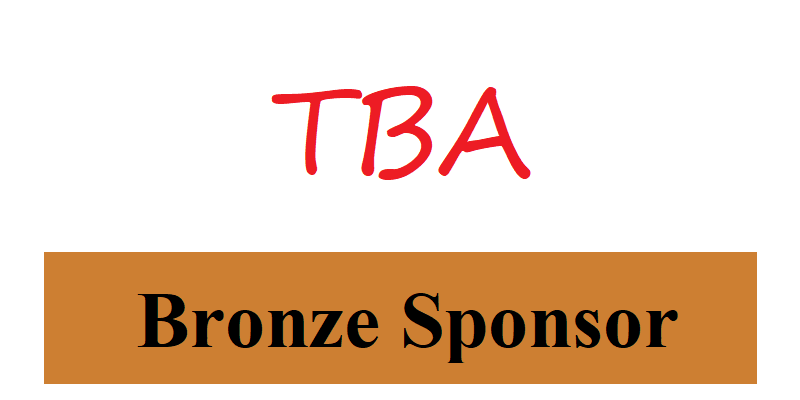
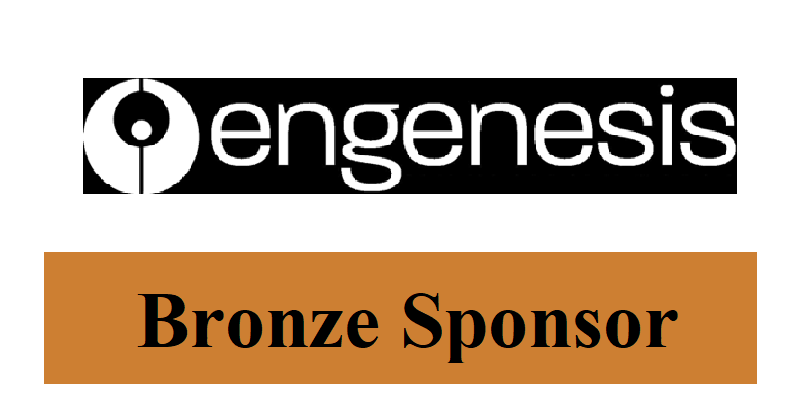
m

Changed region(s): [[0.0938, 0.18, 0.9375, 0.51]]

diff --git a/BigDataSociety/Hackathon/2018-07/index.html b/BigDataSociety/Hackathon/2018-07/index.html
@@ -139,7 +139,7 @@
             <a href="http://www.sas.com/students" target="_blank"><img src="image\Platinum.png" width="200" /></a> &nbsp;&nbsp;&nbsp;&nbsp;
             <a href="https://www.yellowfinbi.com/" target="_blank"><img src="image\Gold.png" width="200" /></a> &nbsp;&nbsp;&nbsp;&nbsp;
             <a href="https://www.microsoft.com" target="_blank"><img src="image\Silver.png" width="200" /></a> &nbsp;&nbsp;&nbsp;&nbsp;
-            <a href="#" target="_blank"><img src="image\Bronze.png" width="200" /></a> 
+            <a href="http://engenesis.com/aboutus" target="_blank"><img src="image\Bronze.png" width="200" /></a> 
 
             
         </div>
